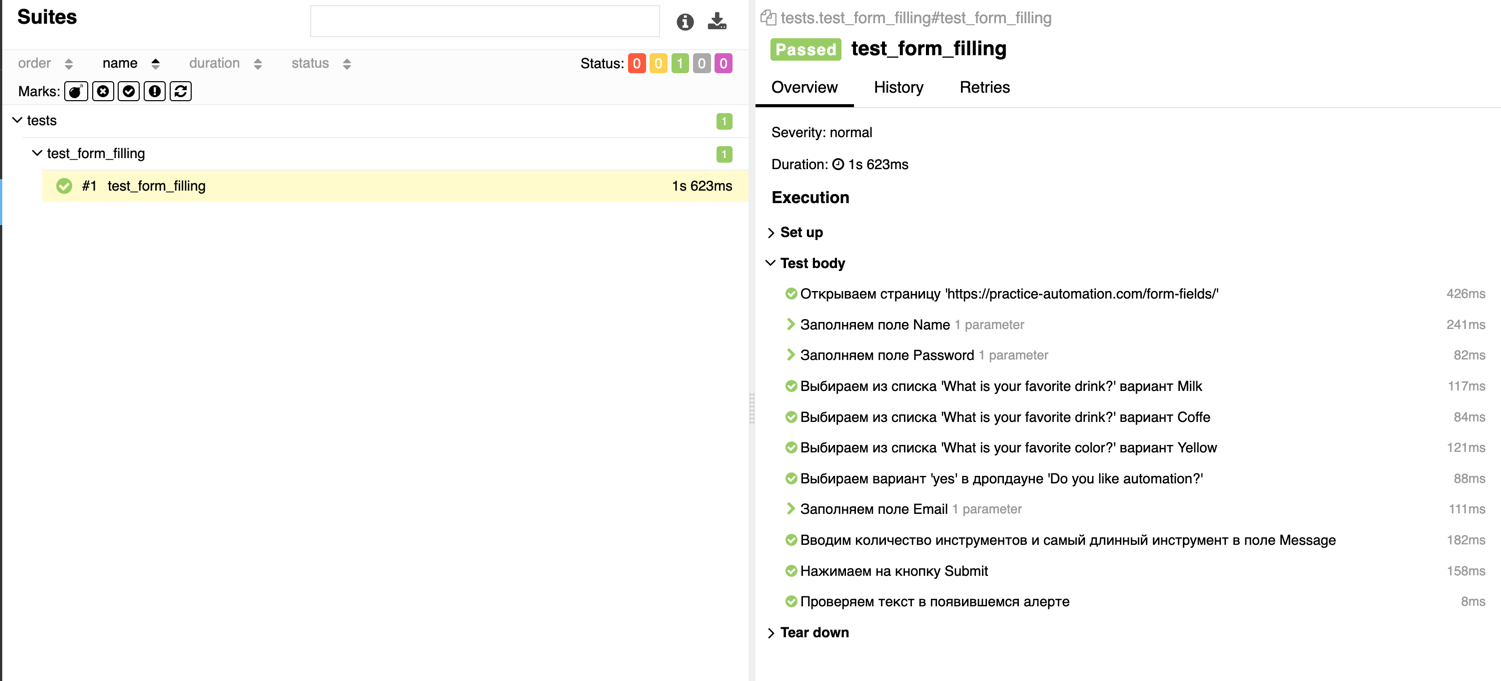
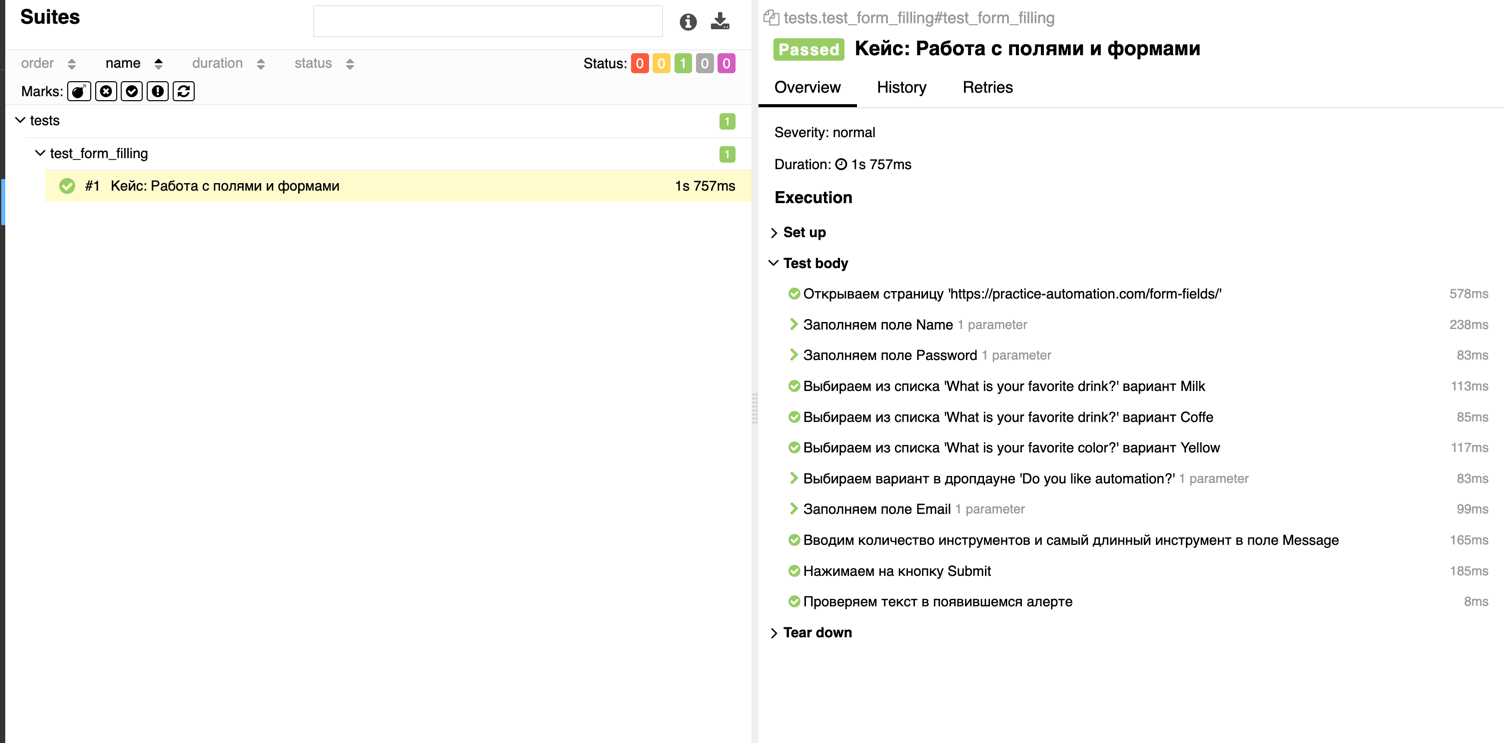
Добавил декоратор title, вынес класс FormPage в фикстуру

diff --git a/tests/test_form_filling.py b/tests/test_form_filling.py
@@ -1,31 +1,26 @@
-from pages.form_page import FormPage
+import allure
 
-def test_form_filling(driver):
-    form_page = FormPage(driver)
-
+@allure.title("Кейс: Работа с полями и формами")
+def test_form_filling(driver, form_page):
     form_page.open(url='https://practice-automation.com/form-fields/')
 
     form_page.input_name(name='Владимир')
-
     form_page.input_password(password='123')
 
     form_page.select_checkbox_milk()
-
     form_page.select_checkbox_coffee()
 
     form_page.select_yellow_radio_btn()
 
-    form_page.select_in_dropdown()
+    form_page.select_in_dropdown(value='yes')
 
     form_page.input_email(email='VladimirSkufin@example.com')
-
     form_page.input_message()
 
     form_page.click_submit()
 
     expected_text = 'Message received!'
     actual_text = form_page.get_alert_text()
-
     assert actual_text == expected_text, f"Ожидаемый текст в алерте: {expected_text}. Фактический текст: {actual_text}"
 
 

diff --git a/pages/form_page.py b/pages/form_page.py
@@ -38,9 +38,9 @@ class FormPage(BasePage):
         self.scroll_to_element(locator=self.YELLOW_RADIO_BTN)
         self.click(locator=self.YELLOW_RADIO_BTN)
 
-    @allure.step("Выбираем вариант 'yes' в дропдауне 'Do you like automation?'")
-    def select_in_dropdown(self):
-        self.select_by_value(locator=self.DROPDOWN, value='yes')
+    @allure.step("Выбираем вариант в дропдауне 'Do you like automation?'")
+    def select_in_dropdown(self, value: str):
+        self.select_by_value(locator=self.DROPDOWN, value=value)
 
     @allure.step("Заполняем поле Email")
     def input_email(self, email):

diff --git a/tests/conftest.py b/tests/conftest.py
@@ -4,6 +4,9 @@ from selenium.webdriver.chrome.options import Options
 from selenium.webdriver.chrome.service import Service
 from webdriver_manager.chrome import ChromeDriverManager
 
+from pages.form_page import FormPage
+
+
 @fixture(scope="function")
 def driver():
     options = Options()
@@ -16,3 +19,6 @@ def driver():
     driver.quit()
 
 
+@fixture(scope="function")
+def form_page(driver):
+    yield FormPage(driver)

diff --git a/pages/base_page.py b/pages/base_page.py
@@ -20,7 +20,7 @@ class BasePage:
     def elements(self, locator: tuple[str, str]):
         return self.driver.find_elements(*locator)
 
-    def open(self, url):
+    def open(self, url: str):
         with step(f"Открываем страницу '{url}'"):
             self.driver.get(url)
 

diff --git a/README.md b/README.md
@@ -3,6 +3,7 @@
 ### Используемые технологии и инструменты
 1) Python 3.10
 2) Selenium Webdriver + Chrome
+3) Webdriver manager
 3) Cелекторы для поиска элементов: CSS, XPath, ID
 4) Тестовый фреймворк - PyTest
 5) Паттерн проектирования Page Object Model
